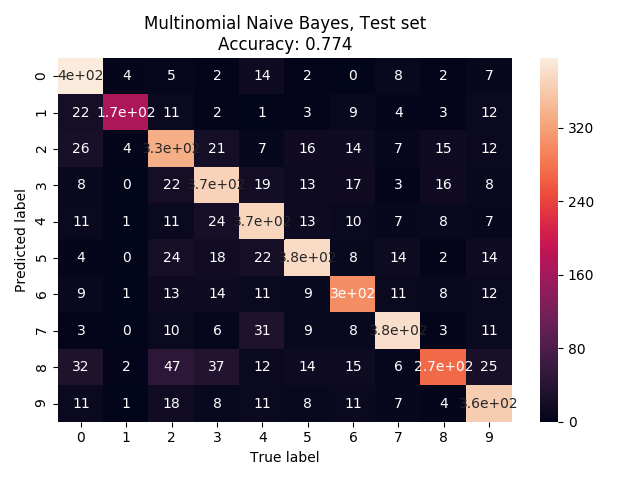
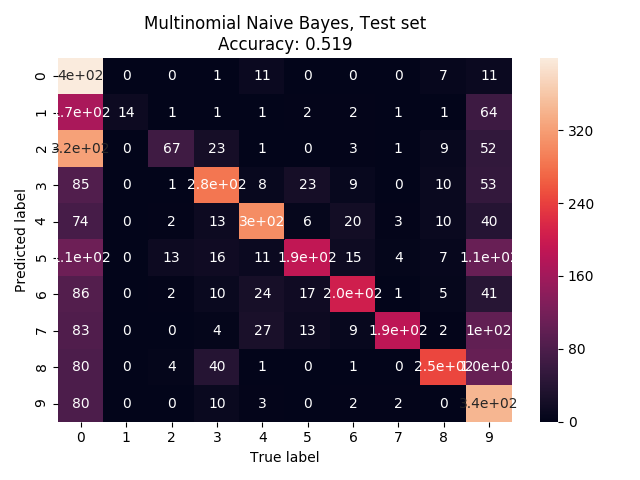
Added some of our own features!

diff --git a/task1/src/preprocessor.py b/task1/src/preprocessor.py
@@ -50,7 +50,6 @@ class Preprocessor:
 		'''
 		# self._split_tweets_labels()
 		self._set_vectorizer()
-		self._extract_indicators()
 
 
 	def _split_tweets_labels(self):
@@ -83,48 +82,6 @@ class Preprocessor:
 										  max_features=max_feat, binary=binary)
 
 
-	def _extract_indicators(self):
-		self._get_common_hashtags()
-		self._get_common_mentions()
-		self._get_common_lexemes()
-
-
-	def _get_common_hashtags(self):
-		# hashtags_for_person = np.zeros((len(tweets), 10))
-		# mentios_for_person = np.zeros((len(tweets), 10))
-		# lexems_for_person = np.zeros((len(tweets), 10))
-		#
-		# for index, tweet in enumerate(tweets):
-		# 	for hashtag in all_hashtags[index]:
-		# 		for i, common_per_person in enumerate(
-		# 				self.most_common_hashtags):
-		# 			hashtags_for_person[
-		# 				index, i] += self.count_word_in_list_of_tuples(
-		# 				common_per_person, hashtag)
-		#
-		# 	for mention in all_mentions[index]:
-		# 		for i, common_per_person in enumerate(
-		# 				self.most_common_mentions):
-		# 			mentios_for_person[
-		# 				index, i] += self.count_word_in_list_of_tuples(
-		# 				common_per_person, mention)
-		#
-		# 	for lexem in proccesed_tweets[index]:
-		# 		for i, common_per_person in enumerate(self.most_common_lexemes):
-		# 			lexems_for_person[
-		# 				index, i] += self.count_word_in_list_of_tuples(
-		# 				common_per_person, lexem)
-			pass
-
-
-	def _get_common_mentions(self):
-		pass
-
-
-	def _get_common_lexemes(self):
-		pass
-
-
 	def get_tweets_features(self, new_tweets):
 		'''
 		Extracts features from tweets.
@@ -152,7 +109,94 @@ class Preprocessor:
 		:param tweets:	type=df,	shape=(n_tweets, )
 		:return: 		type=df,	shape=(n_tweets, n_indicators)
 		'''
-		return pd.DataFrame()
+		df = pd.DataFrame()
+		n_chars = []
+		n_words = []
+		n_hashtags = []
+		n_mentions = []
+		n_links = []
+		n_emojis = []
+
+		for tweet in tweets:
+			n_chars.append(self.get_n_chars(tweet))
+			n_words.append(self.get_n_words(tweet))
+			n_hashtags.append(self.get_n_hashtags(tweet))
+			n_mentions.append(self.get_n_mentions(tweet))
+			n_links.append(self.get_n_links(tweet))
+			n_emojis.append(self.get_n_emojis(tweet))
+
+		df['n_chars'] = n_chars
+		df['n_words'] = n_words
+		df['n_hashtags'] = n_hashtags
+		df['n_mentions'] = n_mentions
+		df['n_links'] = n_links
+		df['n_emojis'] = n_emojis
+		return df
+
+
+	def get_n_words(self, tweet):
+		'''
+		Return word count for tweet.
+		:param tweet:
+		:return:
+		'''
+		return len(tweet.split())
+
+
+	def get_n_chars(self, tweet):
+		'''
+		Returns the char count of the tweet (of all chars).
+		:return:
+		'''
+		return len(tweet)
+
+
+	def get_n_hashtags(self, tweet):
+		"""
+		Gets a tweet, return a list of it's hastags (no #) and a tweet with the
+		hastags removed. list can be empty if no hastags found
+		"""
+		hash_tags = re.findall(
+			r"(?<=^|(?<=[^a-zA-Z0-9-_\.]))#([A-Za-z]+[A-Za-z0-9-_]+)",
+			tweet)
+
+		return len(hash_tags)
+
+
+	def get_n_mentions(self, tweet):
+		"""
+		Gets a tweet, return a list of it's mentions (no @) and a tweet with
+		the mentions removed. list can be empty if no mentions found
+		"""
+		mentions = re.findall(
+			r"(?<=^|(?<=[^a-zA-Z0-9]))@([A-Za-z]+[A-Za-z0-9-_]+)",
+			tweet)
+		return len(mentions)
+
+
+	def get_n_links(self, tweet):
+		"""
+		Gets a tweet, return a list of it's links (full link) and a tweet with
+		the links removed. list can be empty if no links found
+		"""
+		links = re.findall(r"http\S+", tweet)
+		return len(links)
+
+
+	def get_n_emojis(self, tweet):
+		"""
+		Gets a tweet, return number of emojis in the tweet and a tweet with
+		the emojis removed.
+		"""
+		emoji_set = set()
+		number_of_emoji = 0
+		line = regex.findall(r'\X', tweet)
+		for word in line:
+			if any(char in emoji.UNICODE_EMOJI for char in word):
+				emoji_set.add(word)
+				number_of_emoji += 1
+
+		return number_of_emoji
 
 #########################################
 #########################################
@@ -328,71 +372,3 @@ class Preprocessor:
 #
 # 	return most_common
 #
-# def extractEmoji(self, tweet):
-# 	"""
-# 	Gets a tweet, return number of emojis in the tweet and a tweet with
-# 	the emojis removed.
-# 	"""
-# 	emoji_set = set()
-# 	number_of_emoji = 0
-# 	line = regex.findall(r'\X', tweet)
-# 	for word in line:
-# 		if any(char in emoji.UNICODE_EMOJI for char in word):
-# 			emoji_set.add(word)
-# 			number_of_emoji += 1
-#
-# 	# remove emojis
-# 	for emoji_type in emoji_set:
-# 		tweet = tweet.replace(emoji_type, '')
-# 	return tweet, number_of_emoji
-#
-# def get_word_count(self, tweet):
-# 	'''
-# 	Return word count for tweet.
-# 	:param tweet:
-# 	:return:
-# 	'''
-# 	return len(tweet.split())
-#
-# def get_char_count(self, tweet):
-# 	'''
-# 	Returns the char count of the tweet (of all chars).
-# 	:return:
-# 	'''
-# 	return len(tweet)
-#
-# def extractHashtags(self, tweet):
-# 	"""
-# 	Gets a tweet, return a list of it's hastags (no #) and a tweet with the
-# 	hastags removed. list can be empty if no hastags found
-# 	"""
-# 	hash_tags = re.findall(
-# 			r"(?<=^|(?<=[^a-zA-Z0-9-_\.]))#([A-Za-z]+[A-Za-z0-9-_]+)",
-# 			tweet)
-#
-# 	# remove hastags
-# 	for hash_tag in hash_tags:
-# 		tweet = tweet.replace("#" + hash_tag, '')
-# 	return tweet, hash_tags
-#
-# def extractMentions(self, tweet):
-# 	"""
-# 	Gets a tweet, return a list of it's mentions (no @) and a tweet with
-# 	the mentions removed. list can be empty if no mentions found
-# 	"""
-# 	mentions = re.findall(
-# 			r"(?<=^|(?<=[^a-zA-Z0-9]))@([A-Za-z]+[A-Za-z0-9-_]+)",
-# 			tweet)
-#
-# 	# remove mentions
-# 	for mention in mentions:
-# 		tweet = tweet.replace("@" + mention, '')
-# 	return tweet, mentions
-#
-# def exractLinks(self, tweet):
-# 	"""
-# 	Gets a tweet, return a list of it's links (full link) and a tweet with
-# 	the links removed. list can be empty if no links found
-# 	"""
-# 	links = re.findall(r"http\S+", tweet)
-# 	return re.sub(r"http\S+", "", tweet), links
